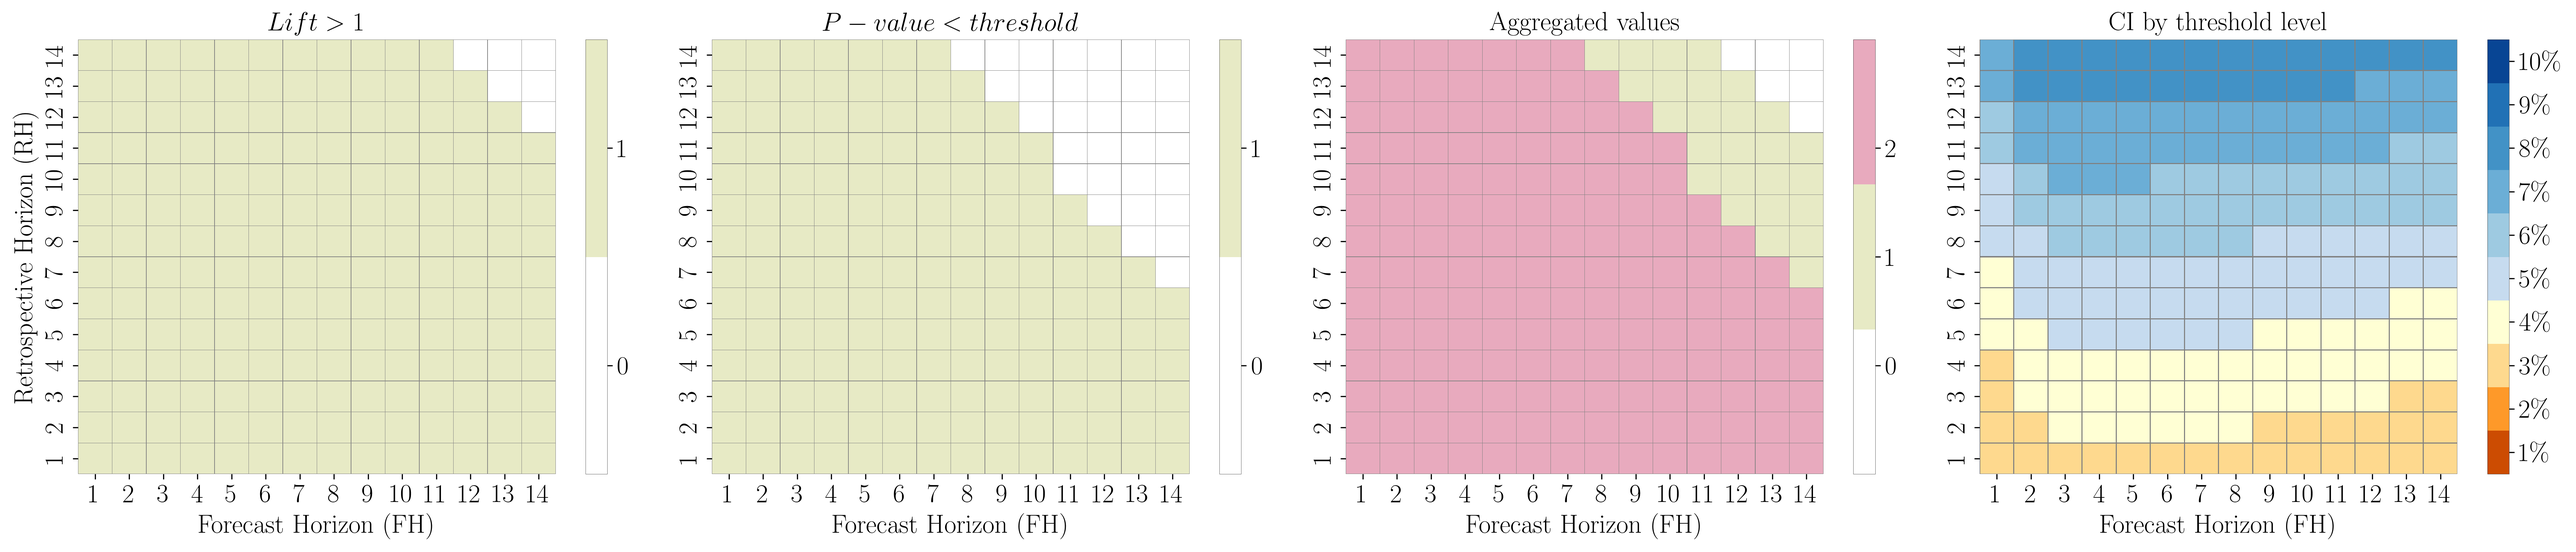
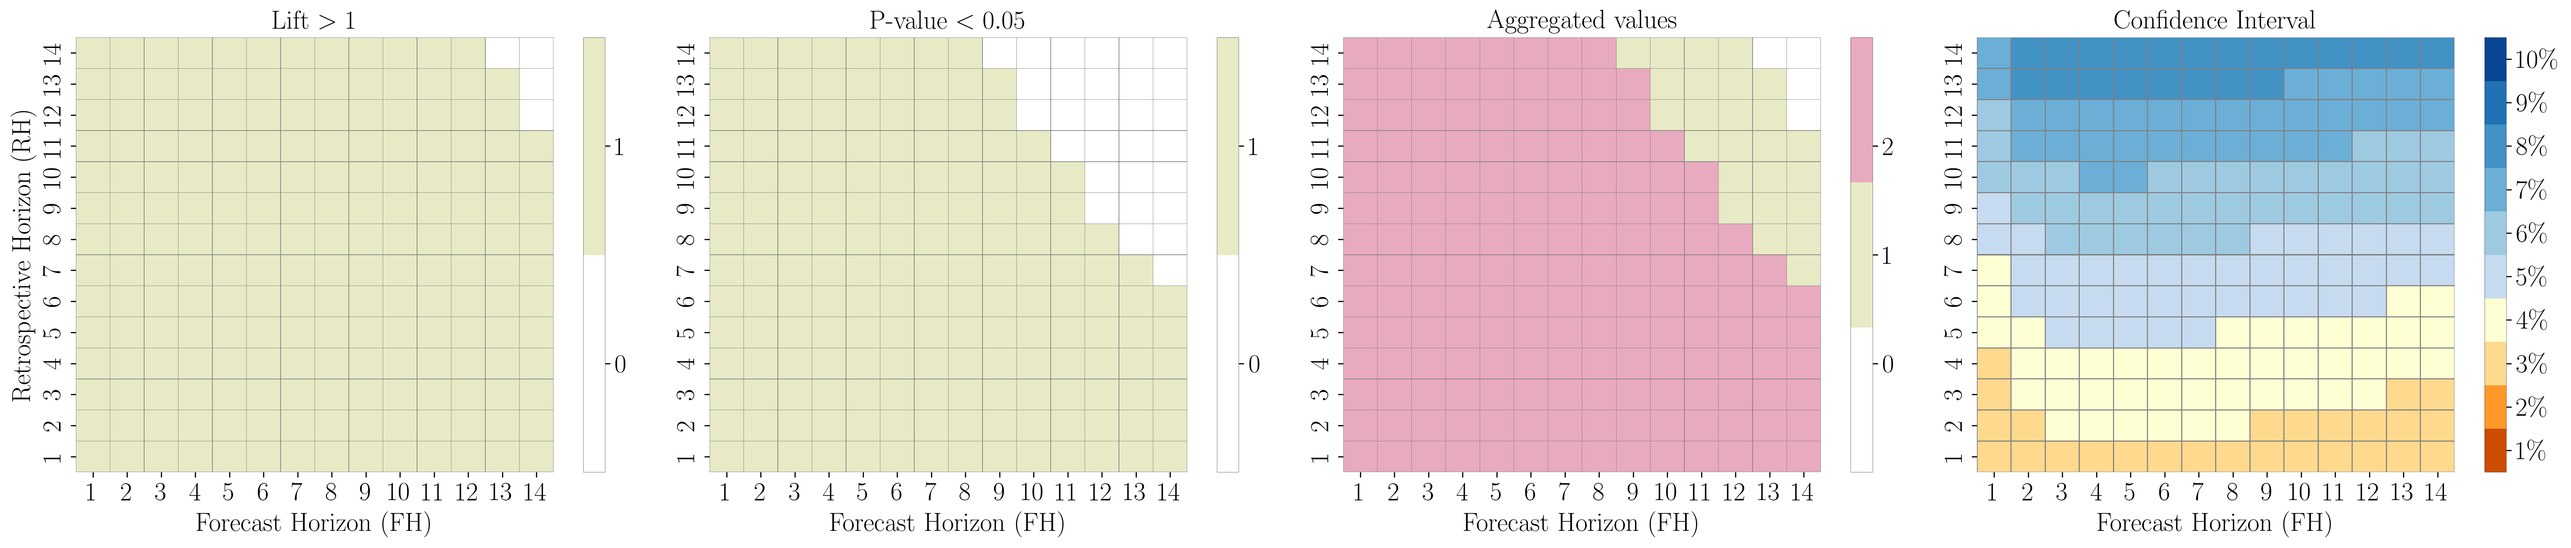
update

diff --git a/utilis.py b/utilis.py
@@ -223,7 +223,7 @@ def plot_aggregation( LIFT, p_values, margin_of_error, HR, HP, outputFolder, fil
     axs[0].invert_yaxis()
     axs[0].set_xlabel('Forecast Horizon (FH)')
     axs[0].set_ylabel('Retrospective Horizon (RH)')
-    axs[0].set_title('$Lift > 1$')
+    axs[0].set_title('Lift $> 1$')
 
     # P-values
     sns.heatmap(p_values_classified, xticklabels=HP, yticklabels=HR,
@@ -232,7 +232,7 @@ def plot_aggregation( LIFT, p_values, margin_of_error, HR, HP, outputFolder, fil
                 linewidths=0.1, linecolor='gray')
     axs[1].invert_yaxis()
     axs[1].set_xlabel('Forecast Horizon (FH)')
-    axs[1].set_title('$P-value < threshold$')
+    axs[1].set_title(f'P-value $< {pval_threshold}$')
 
     # Aggregation
     sns.heatmap(aggregated, xticklabels=HP, yticklabels=HR,
@@ -277,7 +277,7 @@ def plot_aggregation( LIFT, p_values, margin_of_error, HR, HP, outputFolder, fil
     )
     axs[3].invert_yaxis()
     axs[3].set_xlabel('Forecast Horizon (FH)')
-    axs[3].set_title('CI by threshold level')
+    axs[3].set_title('Confidence Interval')
 
     # Colorbars formatting
     for i in [0, 1]:
@@ -300,7 +300,7 @@ def plot_aggregation( LIFT, p_values, margin_of_error, HR, HP, outputFolder, fil
     plt.show()
 
     outpath = os.path.join(outputFolder, filename)
-    fig.savefig(outpath, dpi=300, bbox_inches='tight', pad_inches=0.12)
+    fig.savefig(outpath, dpi=300, bbox_inches='tight', pad_inches=0.1)
     plt.close()
 
 

diff --git a/proba_freeze.py b/proba_freeze.py
@@ -249,7 +249,7 @@ def worker(task):
 
 if __name__ == "__main__":
 
-    df_T= pd.read_csv("/Data/1.0_ T_St_Hiliaire.csv", delimiter='\t')
+    df_T= pd.read_csv("/mnt/SSD1/bouazizs/GradCam/Probabilities/1.0_ T_St_Hiliaire_filled_complete.csv", delimiter='\t')
     df_T['AAAAMMJJHH'] = pd.to_datetime(df_T['AAAAMMJJHH'])
     df_T["AAAAMMJJHH"] = df_T["AAAAMMJJHH"].dt.date
     df_T['AAAAMMJJHH'] = pd.to_datetime(df_T['AAAAMMJJHH'])
@@ -259,7 +259,7 @@ if __name__ == "__main__":
     df_Daily_T = daily_T.reset_index(name="negative_temp")
 
 
-    df_sismo= pd.read_csv("/Data/ev_sismo2.csv")
+    df_sismo= pd.read_csv("/mnt/SSD1/bouazizs/GradCam/Probabilities/ev_sismo2.csv")
     df_sismo['AAAAMMJJHH'] = pd.to_datetime(df_sismo['AAAAMMJJHH'])
     df_sismo['AAAAMMJJHH']=df_sismo['AAAAMMJJHH'].dt.strftime('%Y-%m-%d')
     #on regarde que les types de "R"
@@ -274,7 +274,7 @@ if __name__ == "__main__":
     df_T = df_T[(df_T['AAAAMMJJHH']>= start_date) & (df_T['AAAAMMJJHH'] <= end_date)]
 
     # File to save results
-    outputFolder="/Probabilities_rockfall_conditions/continuous_freeze"
+    outputFolder="/mnt/SSD1/bouazizs/GradCam/Probabilities_rockfall_conditions/continuous_freeze_filled"
     os.makedirs(outputFolder, exist_ok=True)
 
     #calcul des probabilités pour les valeurs de HR et HP
